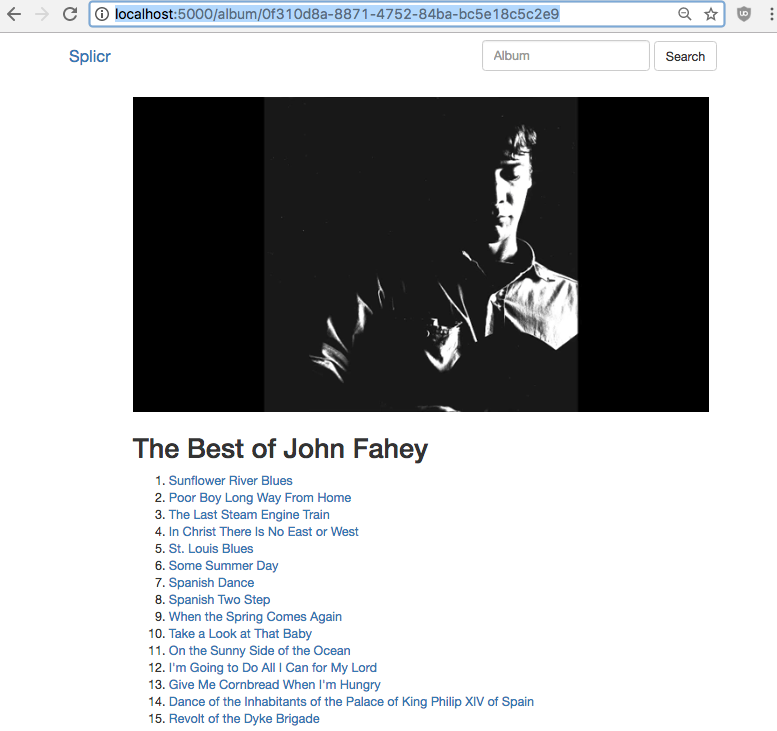
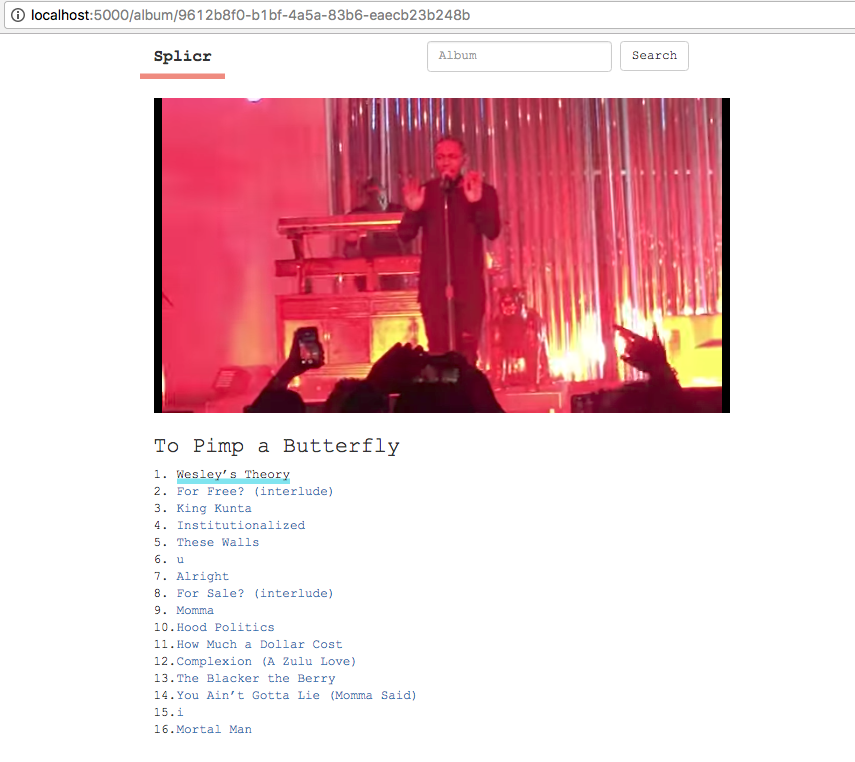
aesthetic improvements, search refinements

diff --git a/templates/index.html b/templates/index.html
@@ -7,9 +7,27 @@
 
   </head>
   <body>
+<a href="https://github.com/28mm/Splicr" class="github-corner" aria-label="View source on Github"><svg width="80" height="80" viewBox="0 0 250 250" style="fill:#80e4ef; color:#fff; position: absolute; top: 0; border: 0; right: 0;" aria-hidden="true"><path d="M0,0 L115,115 L130,115 L142,142 L250,250 L250,0 Z"></path><path d="M128.3,109.0 C113.8,99.7 119.0,89.6 119.0,89.6 C122.0,82.7 120.5,78.6 120.5,78.6 C119.2,72.0 123.4,76.3 123.4,76.3 C127.3,80.9 125.5,87.3 125.5,87.3 C122.9,97.6 130.6,101.9 134.4,103.2" fill="currentColor" style="transform-origin: 130px 106px;" class="octo-arm"></path><path d="M115.0,115.0 C114.9,115.1 118.7,116.5 119.8,115.4 L133.7,101.6 C136.9,99.2 139.9,98.4 142.2,98.6 C133.8,88.0 127.5,74.4 143.8,58.0 C148.5,53.4 154.0,51.2 159.7,51.0 C160.3,49.4 163.2,43.6 171.4,40.1 C171.4,40.1 176.1,42.5 178.8,56.2 C183.1,58.6 187.2,61.8 190.9,65.4 C194.5,69.0 197.7,73.2 200.1,77.6 C213.8,80.2 216.3,84.9 216.3,84.9 C212.7,93.1 206.9,96.0 205.4,96.6 C205.1,102.4 203.0,107.8 198.3,112.5 C181.9,128.9 168.3,122.5 157.7,114.1 C157.9,116.9 156.7,120.9 152.7,124.9 L141.0,136.5 C139.8,137.7 141.6,141.9 141.8,141.8 Z" fill="currentColor" class="octo-body"></path></svg></a><style>.github-corner:hover .octo-arm{animation:octocat-wave 560ms ease-in-out}@keyframes octocat-wave{0%,100%{transform:rotate(0)}20%,60%{transform:rotate(-25deg)}40%,80%{transform:rotate(10deg)}}@media (max-width:500px){.github-corner:hover .octo-arm{animation:none}.github-corner .octo-arm{animation:octocat-wave 560ms ease-in-out}}</style>
+
     {% include "navbar.html" %}
     <div class="container">
+      <p>
+	<a href="http://x-splicr.appspot.com">Splicr</a> is a bare-bones, <a href="http://www.github.com/28mm/Splicr">open source</a>, stateless <a href="http://flask.pocoo.org/">Flask</a> App that finds and plays full length albums on <a href="http://www.youtube.com">Youtube</a>, using track listings from the <a href="https://musicbrainz.org/">Musicbrainz</a> database.
+      </p>
+
+      <p>
+	Because Youtube does not have every song, and is missing many studio recordings, Splicr often produces unusual combinations of covers, concert performances, and bizarre unrelated material. 
+      </p>
+
+      <p>Consider Kendrick Lamar's <a href="/album/9612b8f0-b1bf-4a5a-83b6-eaecb23b248b">To Pimp a Butterfly</a>, for example, or <a href="/album/5ebda3d7-b352-4fd8-b6cd-54d34d30282e">the Essential Leonard Cohen.</a></p>
+	
+
+      </table>
     </div>
+
+
+
+
   </body>
 
 </html>

diff --git a/static/css/main.css b/static/css/main.css
@@ -1,0 +1,77 @@
+able.splicr td {
+	     padding: 5px;	     
+}
+
+a.navbar-brand {
+	       font-family: "Courier New", Courier, monospace;
+	       font-weight: bold;
+
+	       text-decoration: none;
+	       border-bottom: 2px solid #ef8b80;
+	       box-shadow: inset 0 -4px 0 #ef8b80;
+	       color: inherit;
+	       transition: background 0.1s cubic-bezier(.33,.66,.66,1);
+}
+
+h2, h3, p {
+   font-family: "Courier New", Courier, monospace;
+   font-size: 16px;
+}
+
+p a {
+       text-decoration: none;
+	       border-bottom: 2px solid #ef8b80;
+	       box-shadow: inset 0 -4px 0 #ef8b80;
+	       color: inherit;
+	       transition: background 0.1s cubic-bezier(.33,.66,.66,1);
+
+
+}
+
+p a:hover {
+  		 text-decoration: none;
+		 border-bottom: 2px solid #80e4ef;
+		 box-shadow: inset 0 -4px 0 #80e4ef;
+		 color: inherit;
+		 transition: background 0.1s cubic-bezier(.33,.66,.66,1);
+}
+
+td {
+   font-family: "Courier New", Courier, monospace;
+}
+
+form {
+       font-family: "Courier New", Courier, monospace;
+}
+
+[status="playing"] {
+		 text-decoration: none;
+		 border-bottom: 2px solid #80e4ef;
+		 box-shadow: inset 0 -4px 0 #80e4ef;
+		 color: inherit;
+		 transition: background 0.1s cubic-bezier(.33,.66,.66,1);
+}
+
+
+[status="played"] {
+		 text-decoration: none;
+		 border-bottom: 2px solid #ef8b80;
+		 box-shadow: inset 0 -4px 0 #ef8b80;
+		 color: inherit;
+		 transition: background 0.1s cubic-bezier(.33,.66,.66,1);
+}
+
+
+table.splicr a:hover {
+		 text-decoration: none;
+		 border-bottom: 2px solid #80e4ef;
+		 box-shadow: inset 0 -4px 0 #80e4ef;
+		 color: inherit;
+		 transition: background 0.1s cubic-bezier(.33,.66,.66,1);
+}
+
+.container {
+	max-width: 640px;
+	min-width: 640px;
+	width: 640px;
+}

diff --git a/templates/search.html b/templates/search.html
@@ -8,17 +8,19 @@
   </head>
   <body>
     {% include "navbar.html" %}
-
-    <div class="row">
-      <div class="col-sm-6 col-sm-offset-3 col-md-6 col-md-offset-3 col-lg-6 col-lg-offset-3">
-        <!-- Simple Search Results -->
-        <h2>Album Results for: {{ terms }}</h2>
-        <ol>
-          {% for album in albums %}
-          <li><a href="/album/{{album.uuid}}">{{album.title}}</a></li>
-          {% endfor %}
-        </ol>
-      </div>
+    <div class="container">
+      <div class="row">
+	
+          <!-- Simple Search Results -->
+          <h3>Album Results: "{{ terms }}"</h3>
+          <table class="splicr">
+            {% for album in albums %}
+	    <tr>
+	      <td>{{loop.index}}. <i>{{album.artist}}</i> <a href="/album/{{album.uuid}}">{{album.title}}</a></td>
+            </tr>
+	    {% endfor %}
+          </table>
+	</div>
     </div>
   </body>
 </html>

diff --git a/Splicr.py b/Splicr.py
@@ -1,4 +1,3 @@
-
 #!/usr/bin/env python3
 
 from flask import Flask
@@ -145,10 +144,21 @@ def mb_search(terms):
 
     albums = []
     for release in response_json['releases']:
+        skip = False
         album = {}
         album['score'] = release['score']
         album['title'] = release['title']
         album['uuid']  = release['id']
+        album['artist'] = release['artist-credit'][0]['artist']['name']
+        album['artist_uuid'] = release['artist-credit'][0]['artist']['id']
+        
+        # skip albums we already have, for more presentable search results.
+        for a in albums:
+            if a['artist'] == album['artist'] and a['title'] == album['artist']:
+                skip = True
+        if skip:
+            continue
+
         albums.append(album)
 
     return albums

diff --git a/readme.md b/readme.md
@@ -1,12 +1,12 @@
 ### Splicr
 
-Splicr is a bare-bones and stateless [Flask](http://flask.pocoo.org/) app for finding and playing full length albums on Youtube. Splicr orders a playlist of Youtube videos using the top search results for each *artist* and *track name* pair in an Album's track list. These, in turn, are obtained from the [MusicBrainz](https://musicbrainz.org/) database.
+Splicr is a bare-bones, stateless [Flask](http://flask.pocoo.org/) app that finds and plays full length albums on Youtube, using track listings from the [MusicBrainz](https://musicbrainz.org/) database.
 
-Because Youtube will not have every song, and sometimes prefers covers or live-recordings, Splicr often produces non-standard playlists. Often these present welcome departures from tired studio recordings; other times they disappoint. Mileage varies. 
+Because Youtube does not have every song, and is missing many studio recordings, Splicr often produces unusual combinations of covers, concert performances, and bizarre unrelated material. Mileage varies!
 
 ### Setup
 
-Splicr is bare-bones. I have given little consideration to aesthetics and security; it is meant to run *locally*. You will need (1) source, (2) a handful of dependencies, and a (3) youtube api key. Patches and pull requests welcome.
+Splicr is farily spartan. To run a local instance, you will need a handful of dependencies, and a youtube api key. Patches and pull requests welcome.
 
 ```bash
 [...]% git clone https://github.com/28mm/Splicr.git
